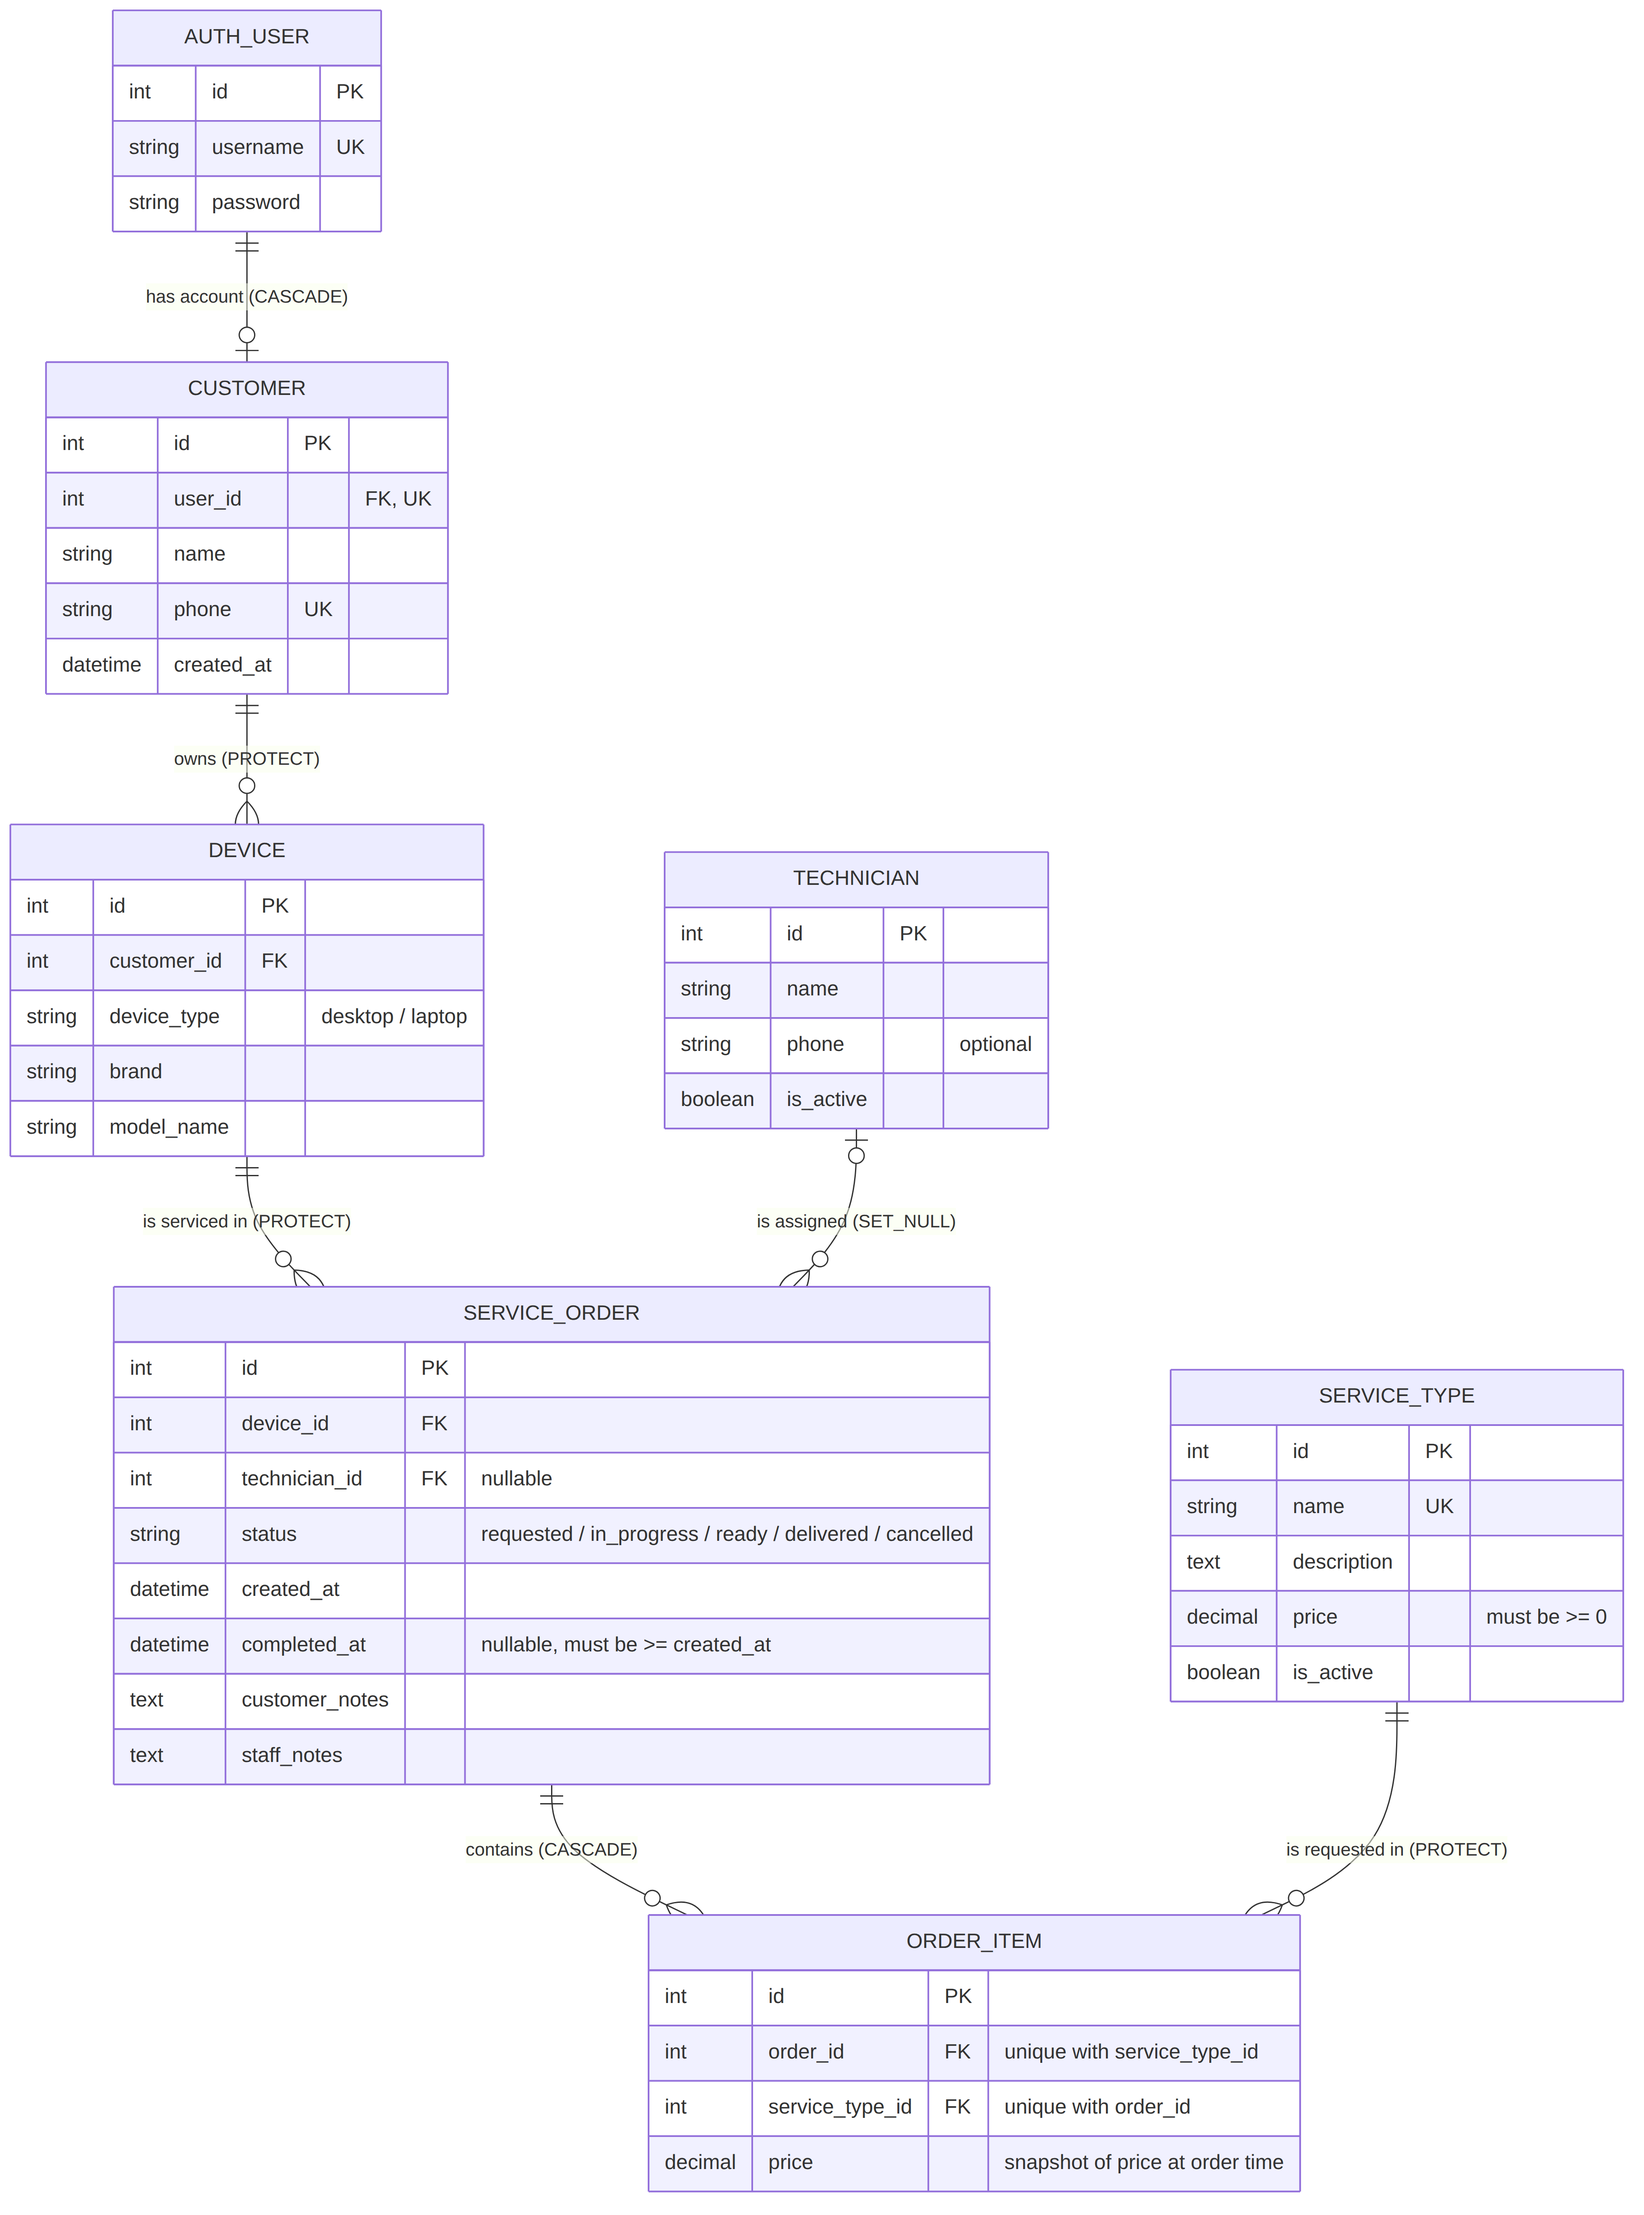
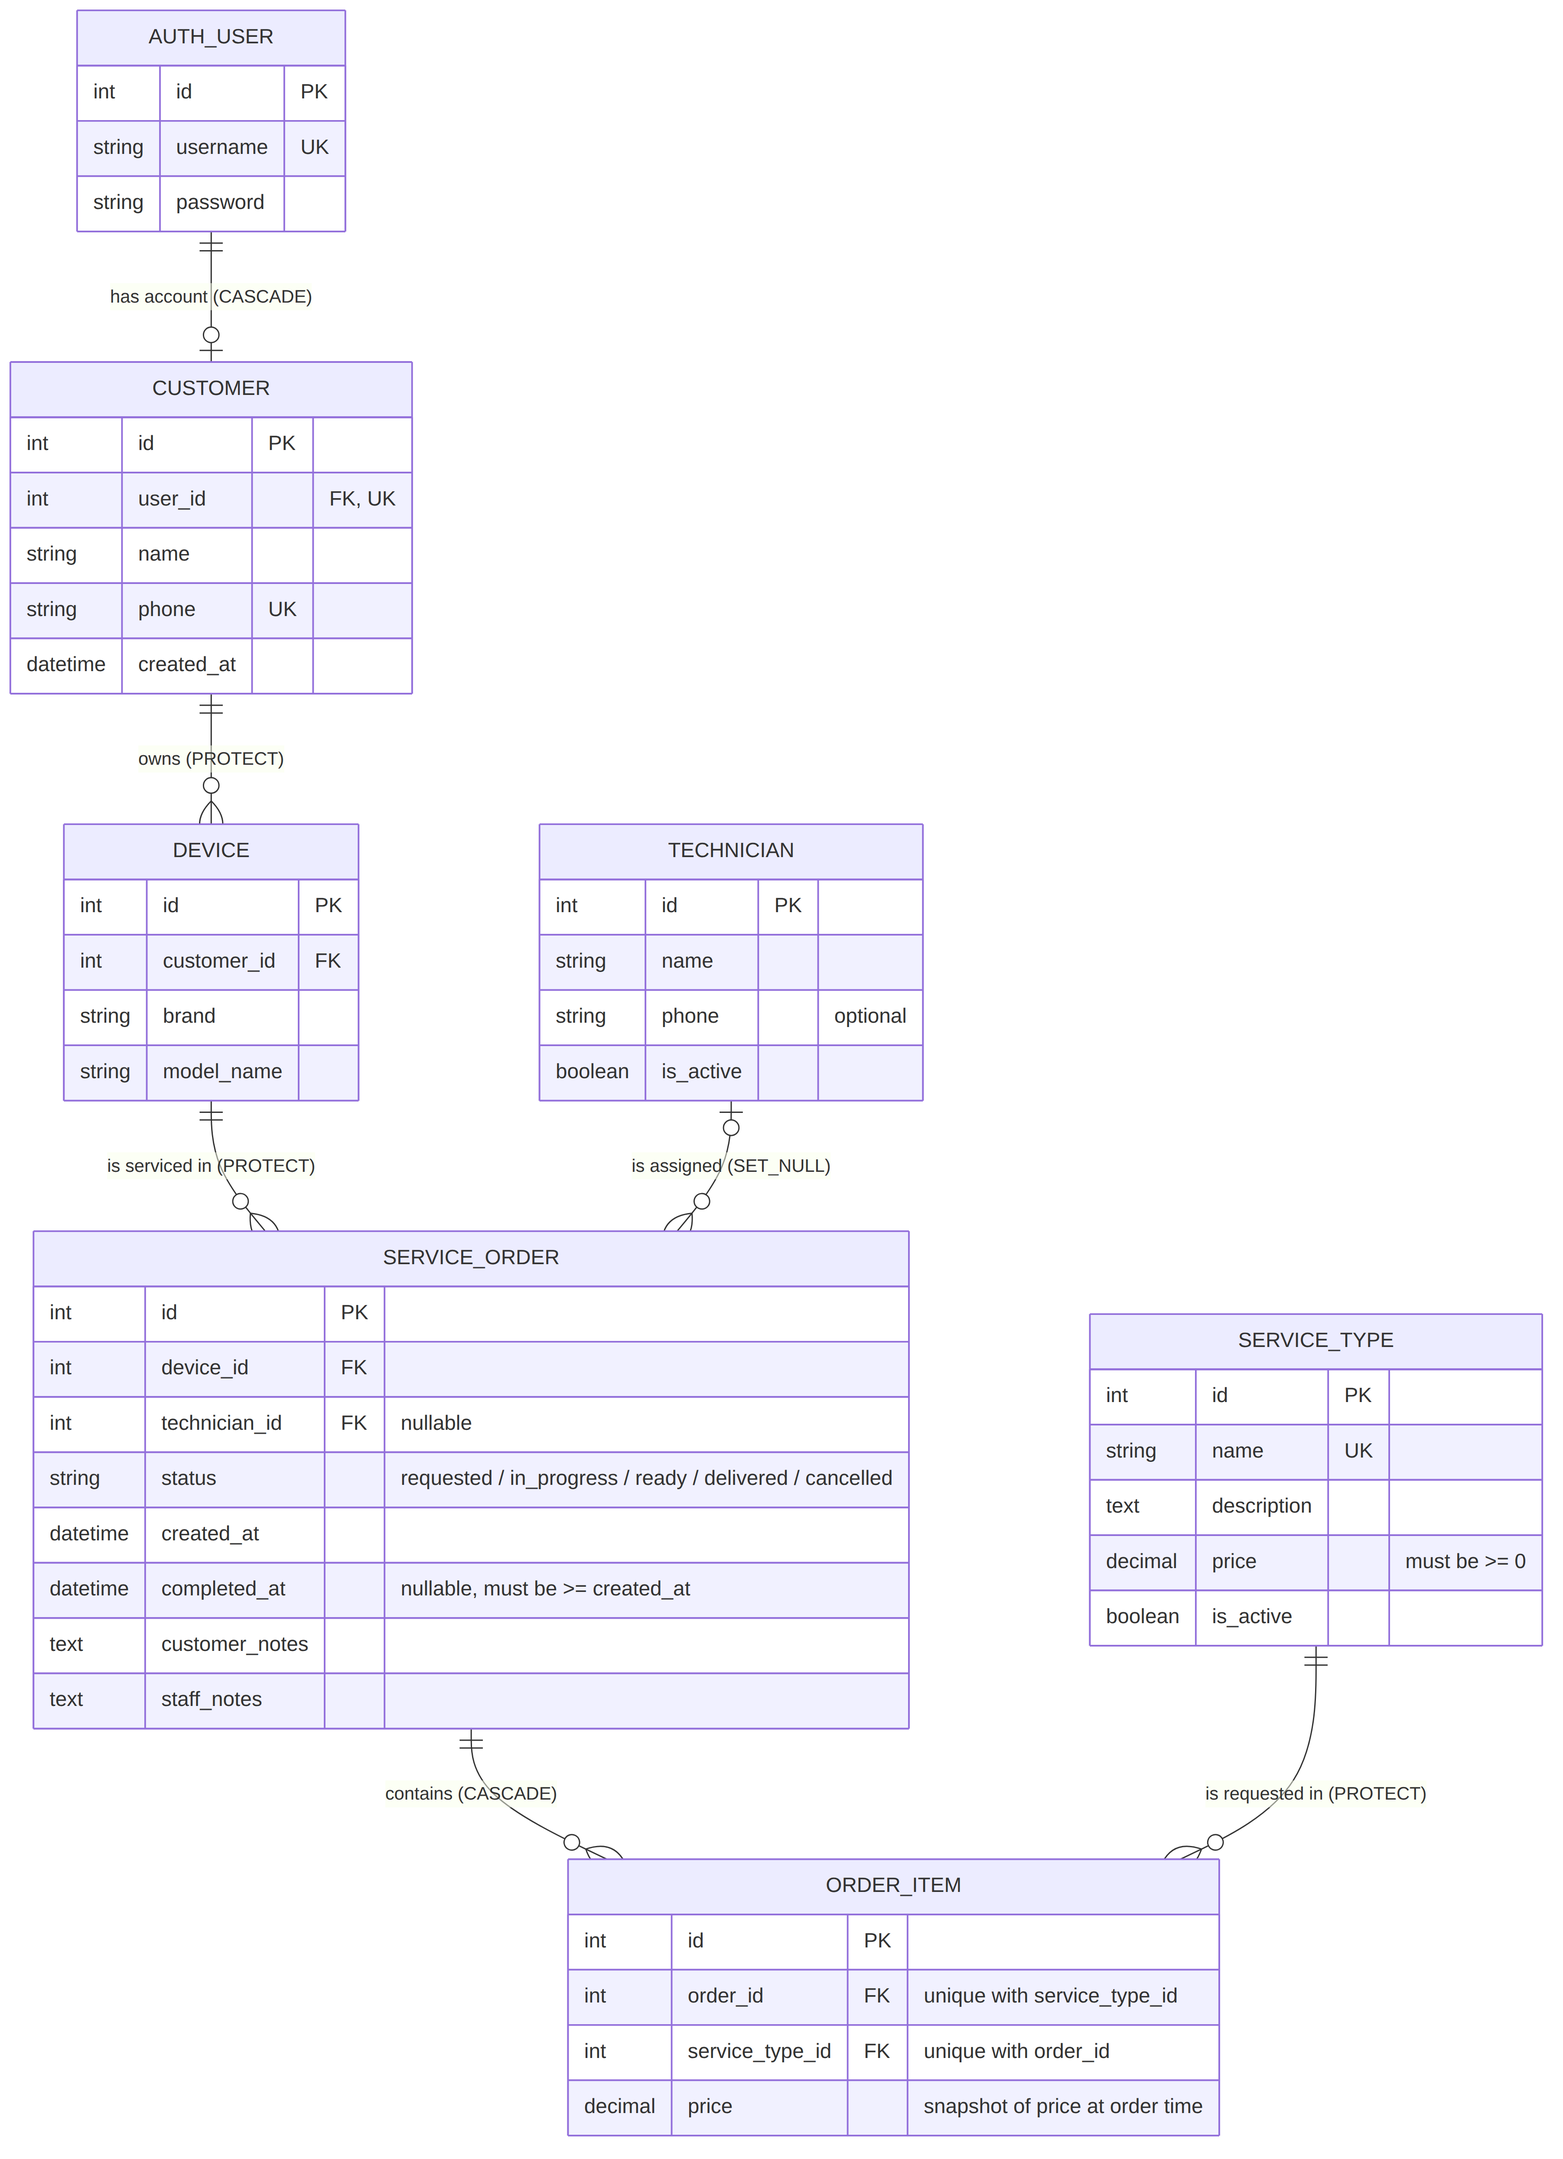
Simplify devices to desktop PCs and merge cleaning services

diff --git a/deqqah/store/models.py b/deqqah/store/models.py
@@ -21,15 +21,8 @@ class Customer(models.Model):
 
 
 class Device(models.Model):
-    class DeviceType(models.TextChoices):
-        DESKTOP = "desktop", "Desktop"
-        LAPTOP = "laptop", "Laptop"
-
     customer = models.ForeignKey(
         Customer, on_delete=models.PROTECT, related_name="devices"
-    )
-    device_type = models.CharField(
-        max_length=10, choices=DeviceType.choices, default=DeviceType.DESKTOP
     )
     brand = models.CharField(max_length=50)
     model_name = models.CharField(max_length=80)

diff --git a/deqqah/store/migrations/0004_remove_device_device_type.py b/deqqah/store/migrations/0004_remove_device_device_type.py
@@ -1,0 +1,17 @@
+# Generated by Django 6.1.2 on 2026-10-11 00:42
+
+from django.db import migrations
+
+
+class Migration(migrations.Migration):
+
+    dependencies = [
+        ('store', '0003_serviceorder_orderitem_and_more'),
+    ]
+
+    operations = [
+        migrations.RemoveField(
+            model_name='device',
+            name='device_type',
+        ),
+    ]
